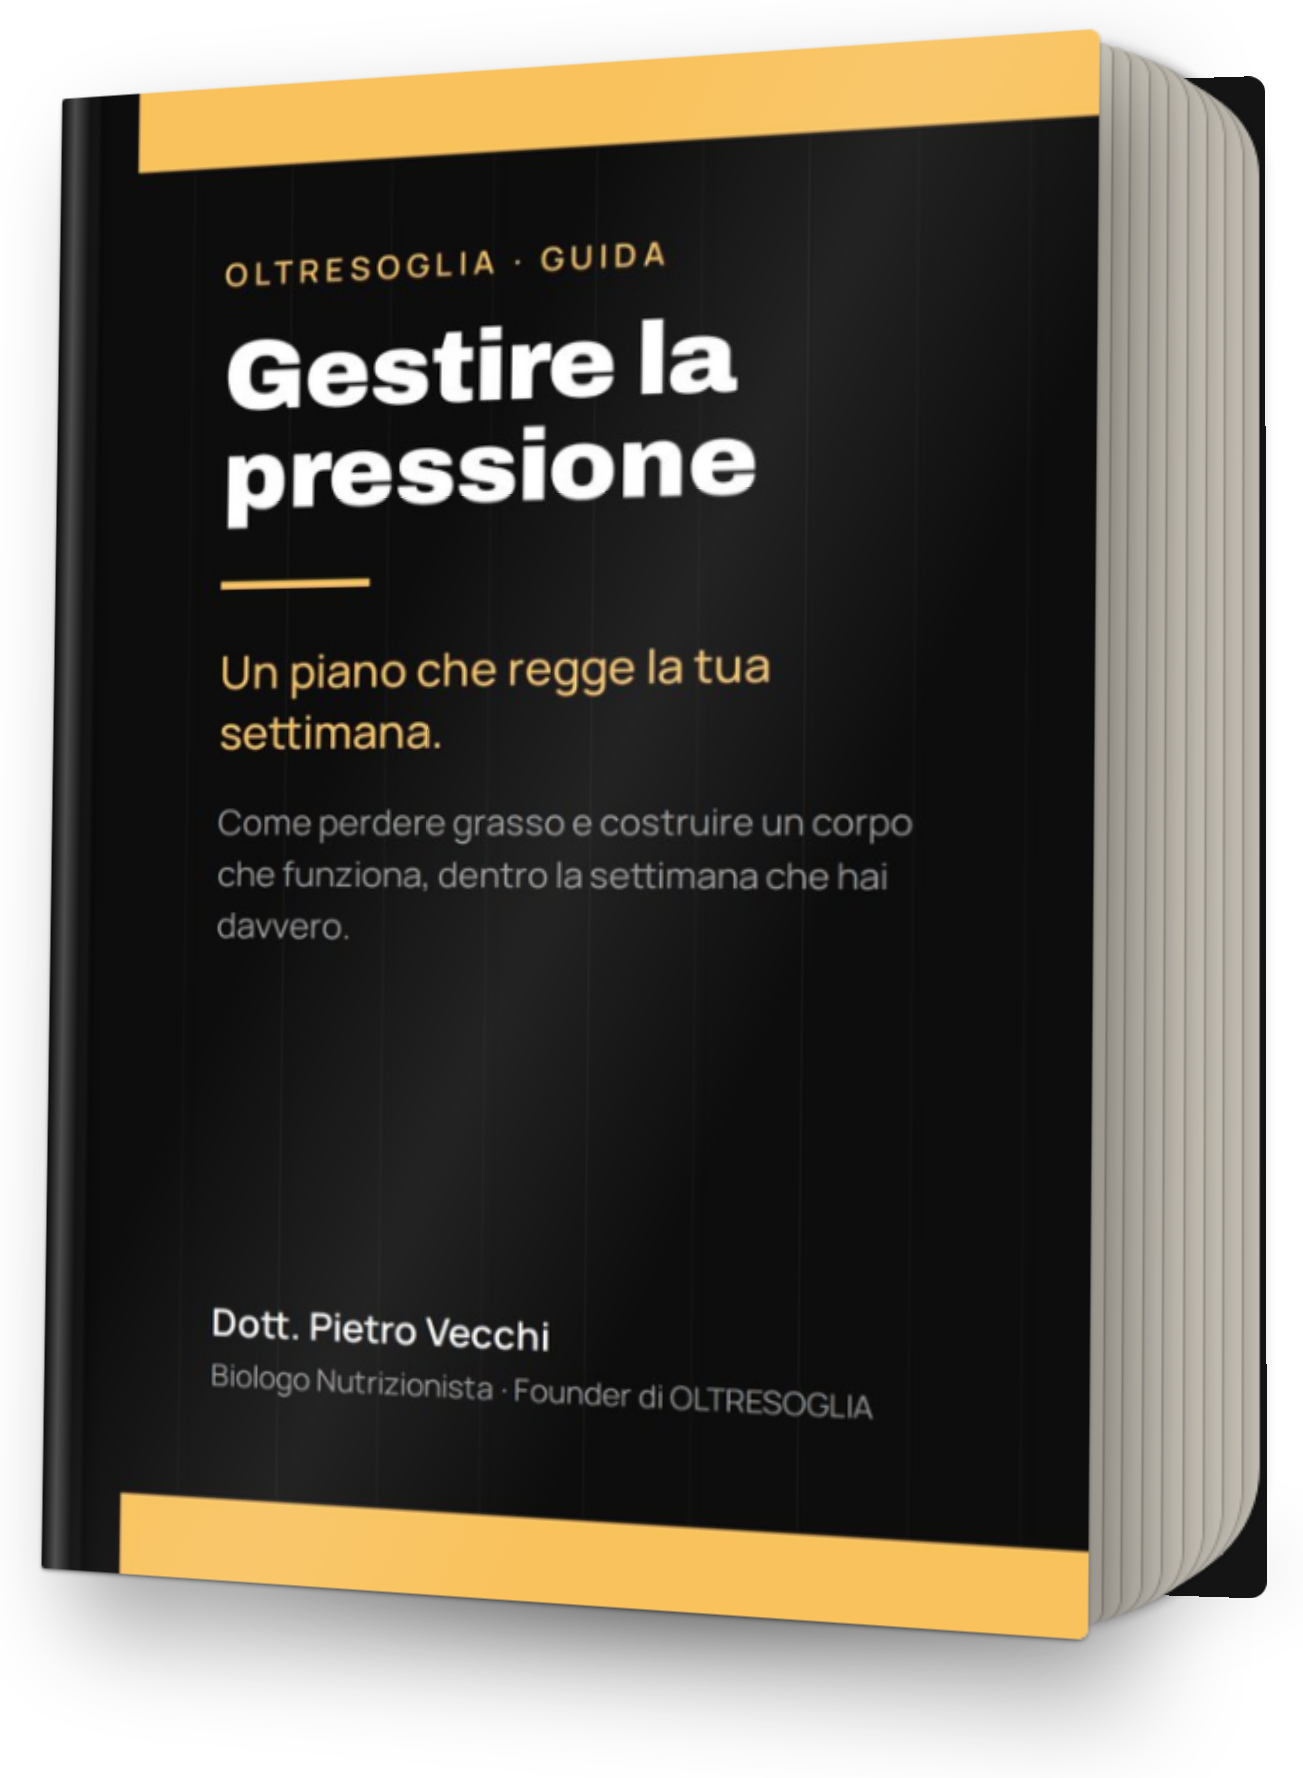
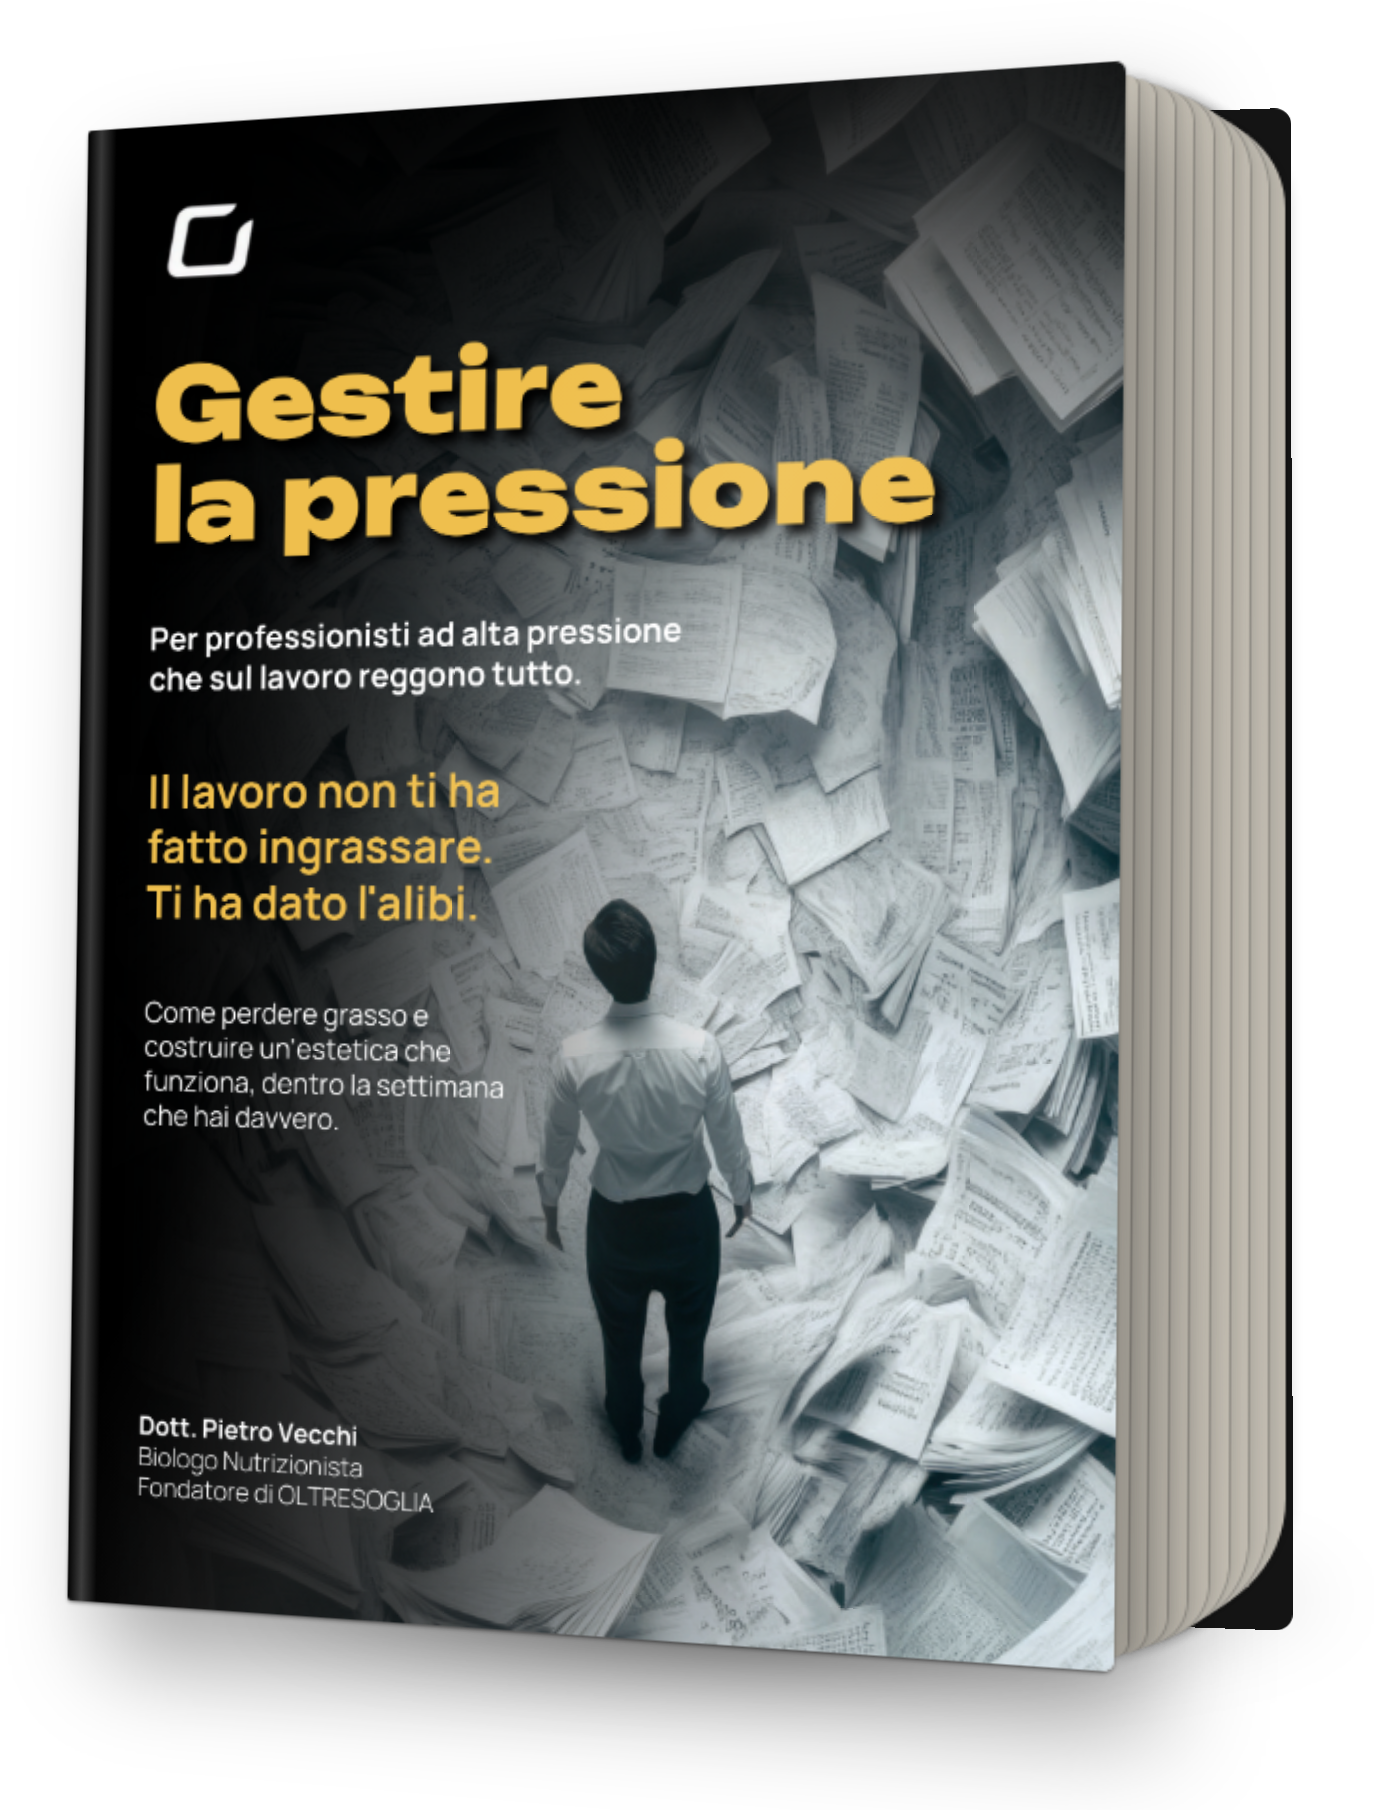
Ebook 3D books: re-render Gestire la pressione from the real cover PDF
Claude-Session: https://claude.ai/code/session_01JnPcEzof7PjujL92AQdgA1

diff --git a/oltresoglia/ebook-gratuiti/assets/books-3d/README.md b/oltresoglia/ebook-gratuiti/assets/books-3d/README.md
@@ -1,13 +1,13 @@
 # 3D book mockups (transparent PNG)
 
-One per ebook, 1303 × 1778 px, transparent background with a soft shadow, pages fanned on the right like they are turning
+One per ebook (about 1300–1370 × 1780–1810 px, same scale), transparent background with a soft shadow, pages fanned on the right like they are turning
 (Bibi's reference, 21 Oct). Covers taken from page 1 of the ebook PDFs Pietro sent.
 
 - `gestire-la-fame-3d-libro.png`
 - `allenarsi-con-continuita-3d-libro.png`
 - `proteggere-il-sonno-3d-libro.png`
 - `migliorare-la-digestione-3d-libro.png`
-- `gestire-la-pressione-3d-libro.png`: **temporary**, made from the site's placeholder cover; no PDF yet.
+- `gestire-la-pressione-3d-libro.png` (cover from the PDF sent on 26 Oct)
 
-To re-render (e.g. when the Pressione PDF arrives): export page 1 of the PDF to `<slug>.png` (1600 px wide), then
+To re-render (e.g. when a cover changes): export page 1 of the PDF to `<slug>.png` (1600 px wide), then
 `node tools/book3d.mjs <src-dir> <out-dir> <slug>` (Playwright). The script trims nothing; trim transparent edges after.
